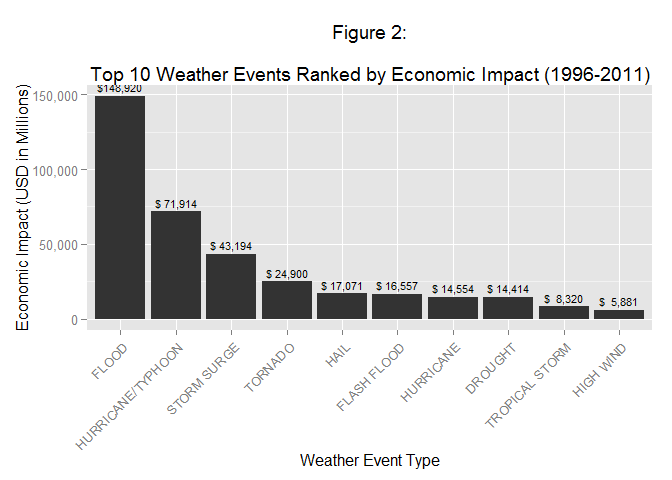
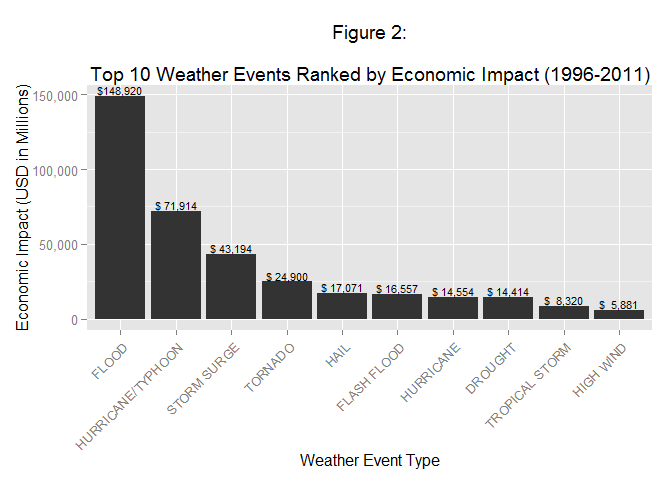
Initial commit

diff --git a/Project2/NOAA_Storm_Database_Analysis.html b/Project2/NOAA_Storm_Database_Analysis.html
@@ -157,13 +157,13 @@ plot1 &lt;- qplot(
     geom_text(
         aes(
             label = format(cData$casualties, big.mark = &quot;,&quot;)
-            ,vjust = -.3
+            ,vjust = -.2
         )
         ,size = 3
     )
 
 print(plot1)</code></pre>
[2 lines of base64/hex data omitted]
 <p>Figure 1 plots the top 10 weather event types ranked by the human casualties (fatalities and injuries) inflicted by them in the United States from 1996-2011 as described in the <em>Data Processing</em> section above. The top two ranking weather event types (TORNADO and EXCESSIVE HEAT) outweigh the casualties caused by the trailing eight weather event types combined.</p>
 <pre class="r"><code>## 2. Across the United States, which types of events have the greatest economic
 ## consequences?
@@ -196,14 +196,14 @@ plot2 &lt;- qplot(
                 &quot;$&quot;
                 ,format(round(eData$damage/1e+06), big.mark = &quot;,&quot;)
             )
-            ,vjust = -.5
+            ,vjust = -.2
         )
         ,size = 3
     ) +
     scale_y_continuous(labels = comma)
 
 print(plot2)</code></pre>
[2 lines of base64/hex data omitted]
 <p>Figure 2 plots the top 10 weather event types ranked by their total economic impact in the United States from 1996-2011 as described in the <em>Data Processing</em> section above. Labels are in millions of USD ($). The top two ranking weather event types (FLOOD and HURRICANE/TYPHOON) outweigh the economic impact of the trailing eight combined.</p>
 <pre class="r"><code>cYData &lt;- data %&gt;%
     filter(EVTYPE %in% cData$EVTYPE) %&gt;%

diff --git a/Project2/NOAA_Storm_Database_Analysis.md b/Project2/NOAA_Storm_Database_Analysis.md
@@ -145,7 +145,7 @@ plot1 <- qplot(
     geom_text(
         aes(
             label = format(cData$casualties, big.mark = ",")
-            ,vjust = -.3
+            ,vjust = -.2
         )
         ,size = 3
     )
@@ -194,7 +194,7 @@ plot2 <- qplot(
                 "$"
                 ,format(round(eData$damage/1e+06), big.mark = ",")
             )
-            ,vjust = -.5
+            ,vjust = -.2
         )
         ,size = 3
     ) +
